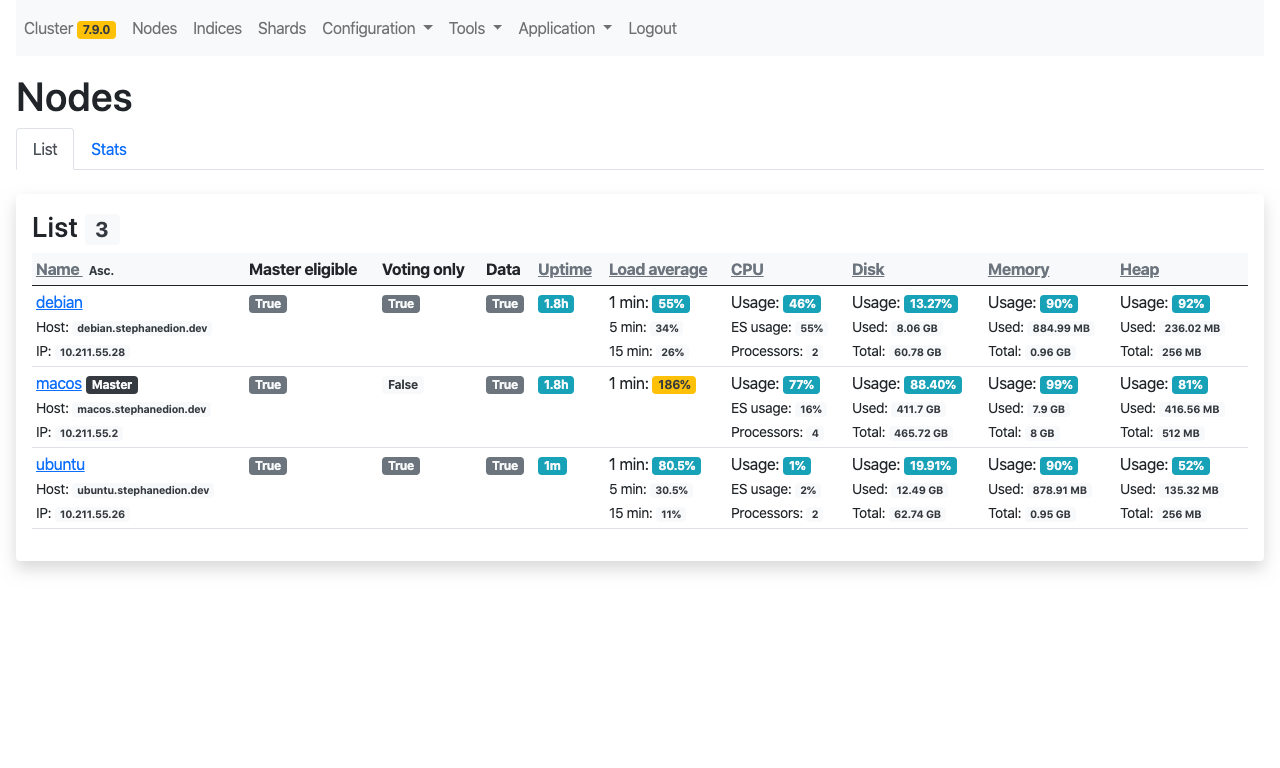
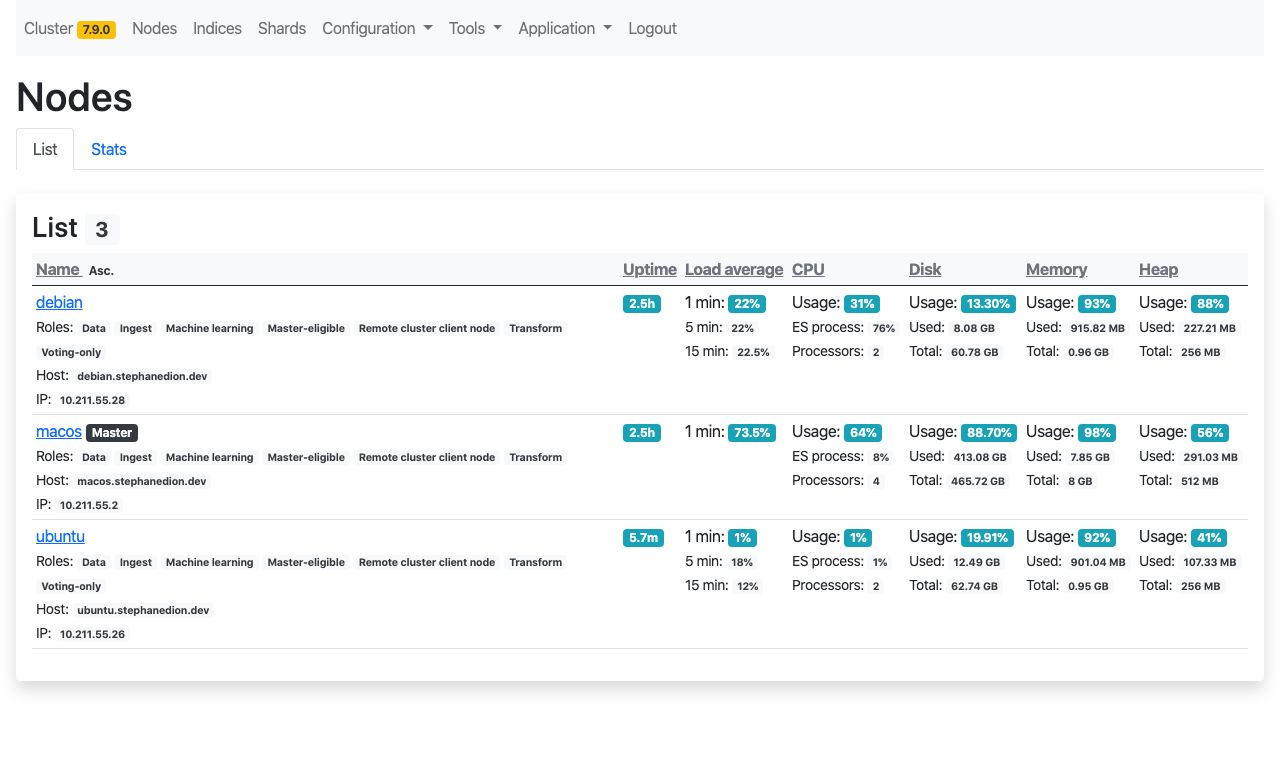
-

Changed region(s): [[0.0312, 0.3438, 0.9688, 0.8438], [0.0312, 0.875, 0.9688, 0.9062], [0.1875, 0.4688, 0.2188, 0.5312]]

diff --git a/src/Controller/ElasticsearchNodeController.php b/src/Controller/ElasticsearchNodeController.php
@@ -97,8 +97,8 @@ class ElasticsearchNodeController extends AbstractAppController
                         }
                         break;
                     case 'nodes_by_role':
-                        if ($node['roles']) {
-                            foreach ($node['roles'] as $role) {
+                        if ($node['node.role']) {
+                            foreach (str_split($node['node.role']) as $role) {
                                 if (false === isset($data['tables'][$table]['results'][$role])) {
                                     $data['tables'][$table]['results'][$role] = ['total' => 0, 'title' => $role];
                                 }
